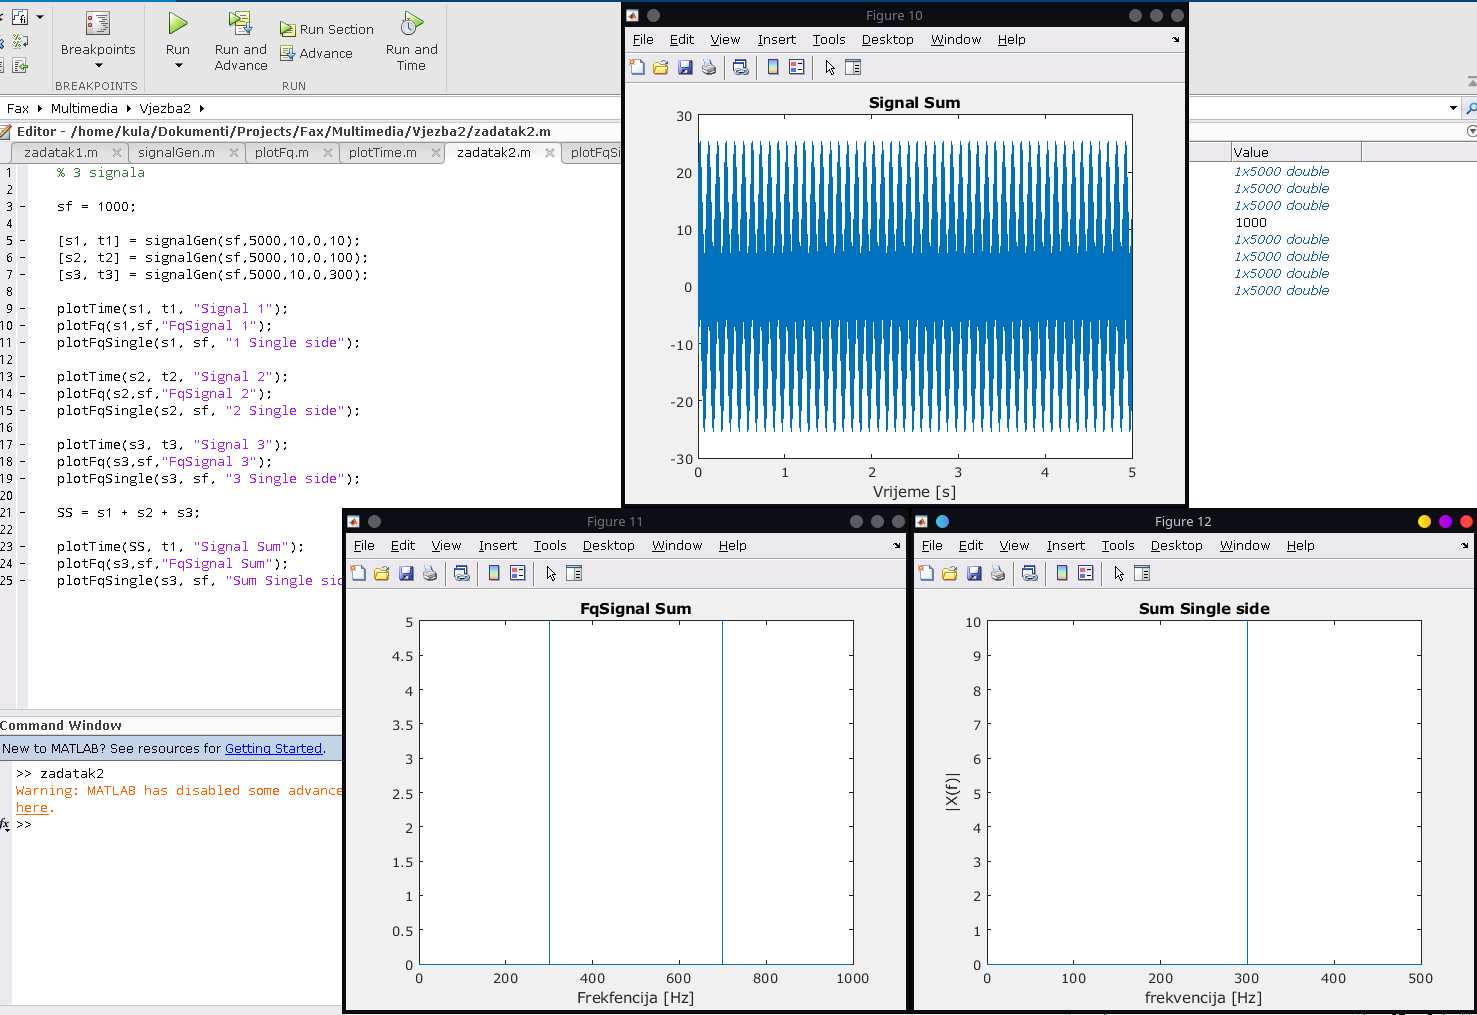
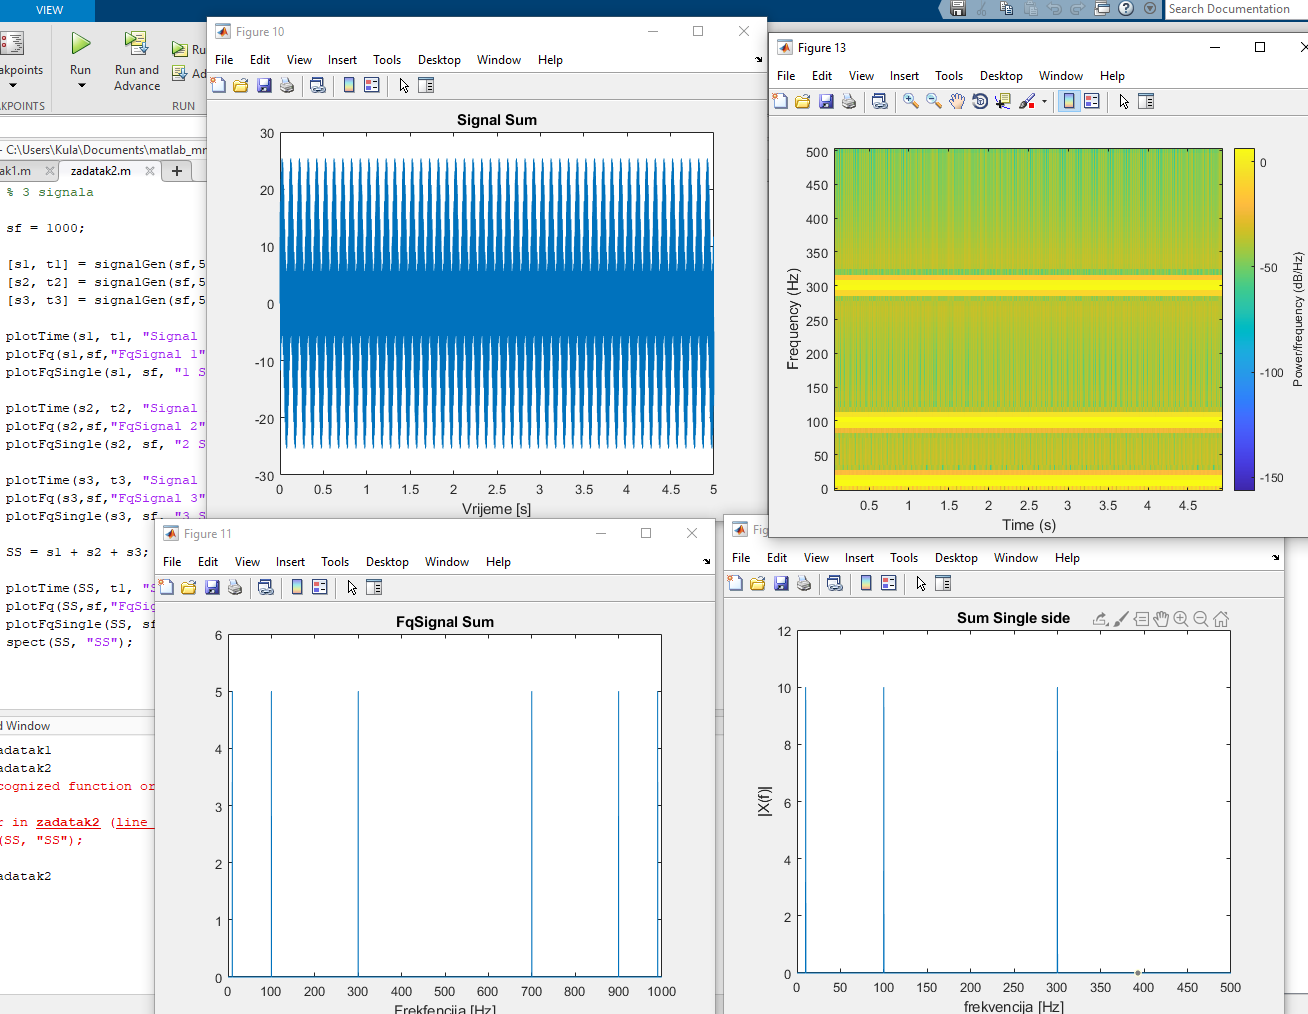
Fixing wrong signal parameters

diff --git a/zadatak1.m b/zadatak1.m
@@ -3,7 +3,6 @@ fq2 = 2000;
 
 [signal, time] = signalGen(fq,5000,10,0,10);
 [signal2, time2] = signalGen(fq2,2500,100,50,1000);
-
 plotTime(signal, time, "Signal 1");
 plotFq(signal,fq,"FqSignal 1");
 plotFqSingle(signal, fq, "1 Single side");
@@ -15,3 +14,4 @@ plotFqSingle(signal2, fq2, "2 Single side");
 
 spect(signal, "Signal 1");
 spect(signal2, "Signal 2");
+

diff --git a/zadatak2.m b/zadatak2.m
@@ -21,5 +21,6 @@ plotFqSingle(s3, sf, "3 Single side");
 SS = s1 + s2 + s3;
 
 plotTime(SS, t1, "Signal Sum");
-plotFq(s3,sf,"FqSignal Sum");
-plotFqSingle(s3, sf, "Sum Single side");
+plotFq(SS,sf,"FqSignal Sum");
+plotFqSingle(SS, sf, "Sum Single side");
+spect(SS, "SS");
